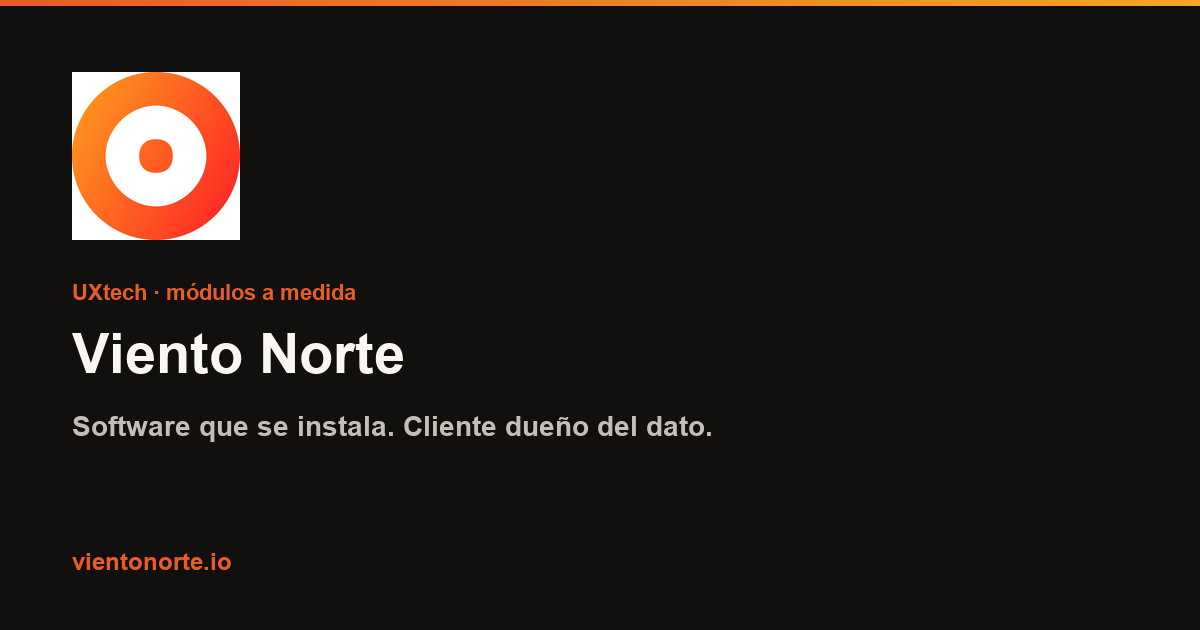
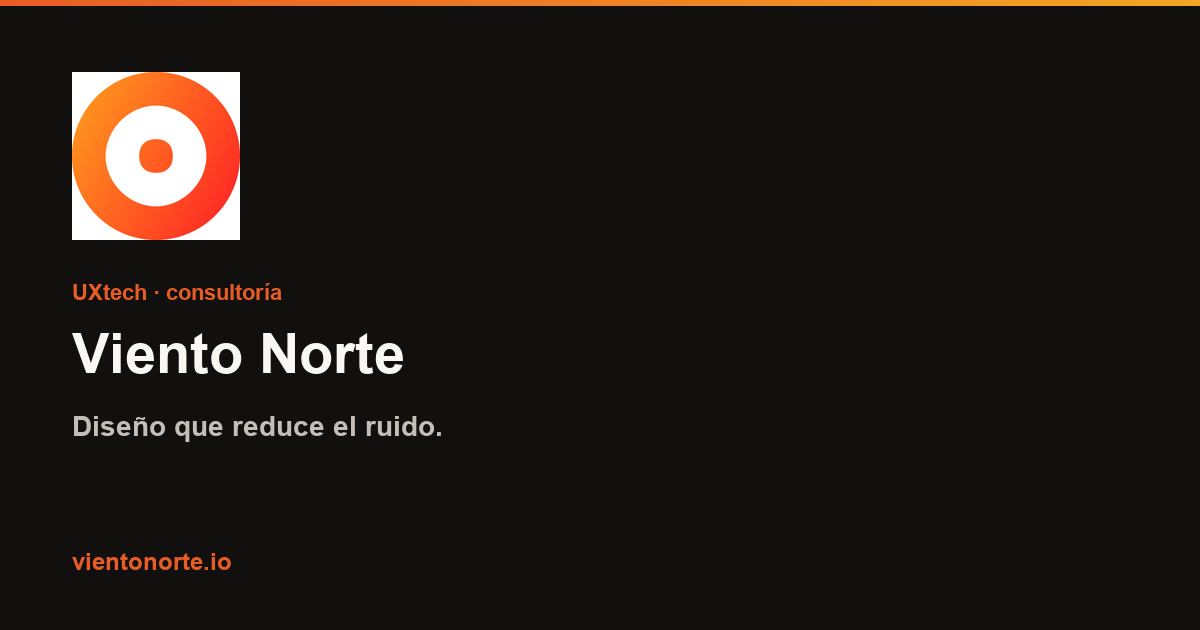
fix(seo): card OG 1200×630 al compartir vientonorte.io (#174)
og:image del apex apunta a og-home-1200.png.

Changed region(s): [[0.0617, 0.6635, 0.5858, 0.6937], [0.1233, 0.4524, 0.3083, 0.4825]]

diff --git a/index.html b/index.html
@@ -49,7 +49,7 @@
     />
     <meta
       property="og:image"
-      content="https://vientonorte.io/images/branding/og-portfolio.png"
+      content="https://vientonorte.io/images/branding/og-home-1200.png"
     />
     <meta property="og:image:width" content="1200" />
     <meta property="og:image:height" content="630" />
@@ -65,7 +65,7 @@
     />
     <meta
       name="twitter:image"
-      content="https://vientonorte.io/images/branding/og-portfolio.png"
+      content="https://vientonorte.io/images/branding/og-home-1200.png"
     />
 
     <!-- JSON-LD (Google rich results / Knowledge — static, pre-JS) · Audit QA SEO 2026-07 -->
@@ -102,7 +102,7 @@
             "@id": "https://vientonorte.io/#consultoria",
             "name": "Consultoría UX · Viento Norte",
             "url": "https://vientonorte.io/#/consultoria",
-            "image": "https://vientonorte.io/images/branding/og-portfolio.png",
+            "image": "https://vientonorte.io/images/branding/og-home-1200.png",
             "provider": { "@id": "https://vientonorte.io/#organization" },
             "areaServed": { "@type": "Country", "name": "Chile" },
             "serviceType": [

diff --git a/public/s/index.html b/public/s/index.html
@@ -14,7 +14,7 @@
     <meta property="og:title" content="Viento Norte · UXtech · Módulos a medida" />
     <meta
       property="og:description"
-      content="Software que se instala. Cliente dueño del dato. Consultoría UX en Chile."
+      content="Diseño que reduce el ruido. Consultoría UX en Chile."
     />
     <meta property="og:image" content="https://vientonorte.io/images/branding/og-home-1200.png" />
     <meta property="og:image:width" content="1200" />

diff --git a/src/lib/seo.ts b/src/lib/seo.ts
@@ -3,7 +3,7 @@ import type { Language } from "./i18n";
 export const SEO_SITE = {
   /** Canon público Viento Norte — sin prefijo /mi-portafolio/ */
   baseUrl: "https://vientonorte.io",
-  ogImage: "https://vientonorte.io/images/branding/og-portfolio.png",
+  ogImage: "https://vientonorte.io/images/branding/og-home-1200.png",
   brand: "Viento Norte",
   role: "UXtech · Front office",
   /** SEO orgánico (root) */

diff --git a/scripts/generate-og.py b/scripts/generate-og.py
@@ -68,13 +68,13 @@ def main() -> None:
         print("archived isologo", ISO)
     draw_card(
         "Viento Norte",
-        "Software que se instala. Cliente dueño del dato.",
-        "UXtech · módulos a medida",
+        "Diseño que reduce el ruido.",
+        "UXtech · consultoría",
         OUT / "og-home-1200.png",
     )
     draw_card(
         "Consultoría UX",
-        "Diagnóstico, prototipo o proceso. Kickoff en 30 min.",
+        "Un flujo WCAG. Luego herramientas en tu perímetro.",
         "Viento Norte · pymes",
         OUT / "og-consultoria-1200.png",
     )
